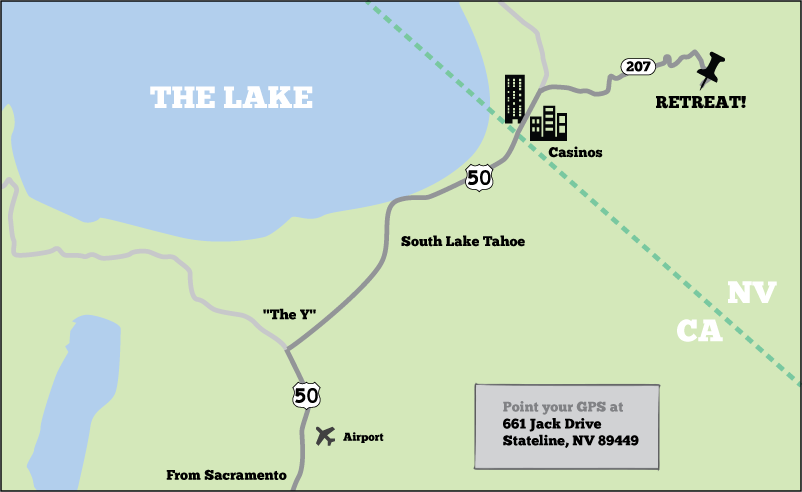
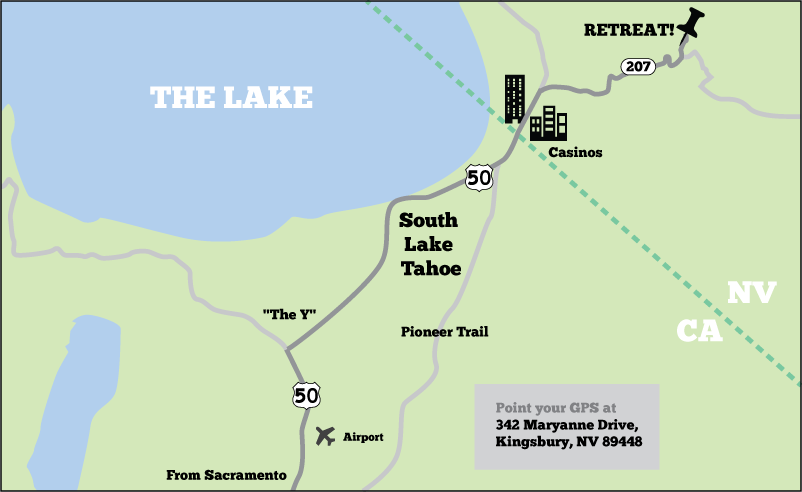
updating map and directions

diff --git a/retreat/index.php b/retreat/index.php
@@ -111,7 +111,7 @@
 					<li>Continue on I-80Bus E/US-50 E/Capital City Freeway toward South Lake Tahoe. After 5 miles, stay on US-50 E.</li>
 					<li>After about 95 miles, turn right on Pioneer Trail. In another 8 miles, turn right on US-50 E/Lake Tahoe Blvd, and head on into Nevada. </li>
 					<li>Turn right on SR-207/Kingsbury Grade Road.</li>
-					<li>In about 3 miles, turn left on N Benjamin Drive.</li>
+					<li>In about 3 miles, you'll see a sign for "Bautovich Park". Your next turn will be left on the very next street, No. Benjamin Drive.</li>
 					<li>Take 2nd right on Bradbury Way, then turn right onto Barret Dr.</li>
 					<li>Take 1st left onto Maryanne Dr. The house will be second on the left.</li>
 				</ol>
